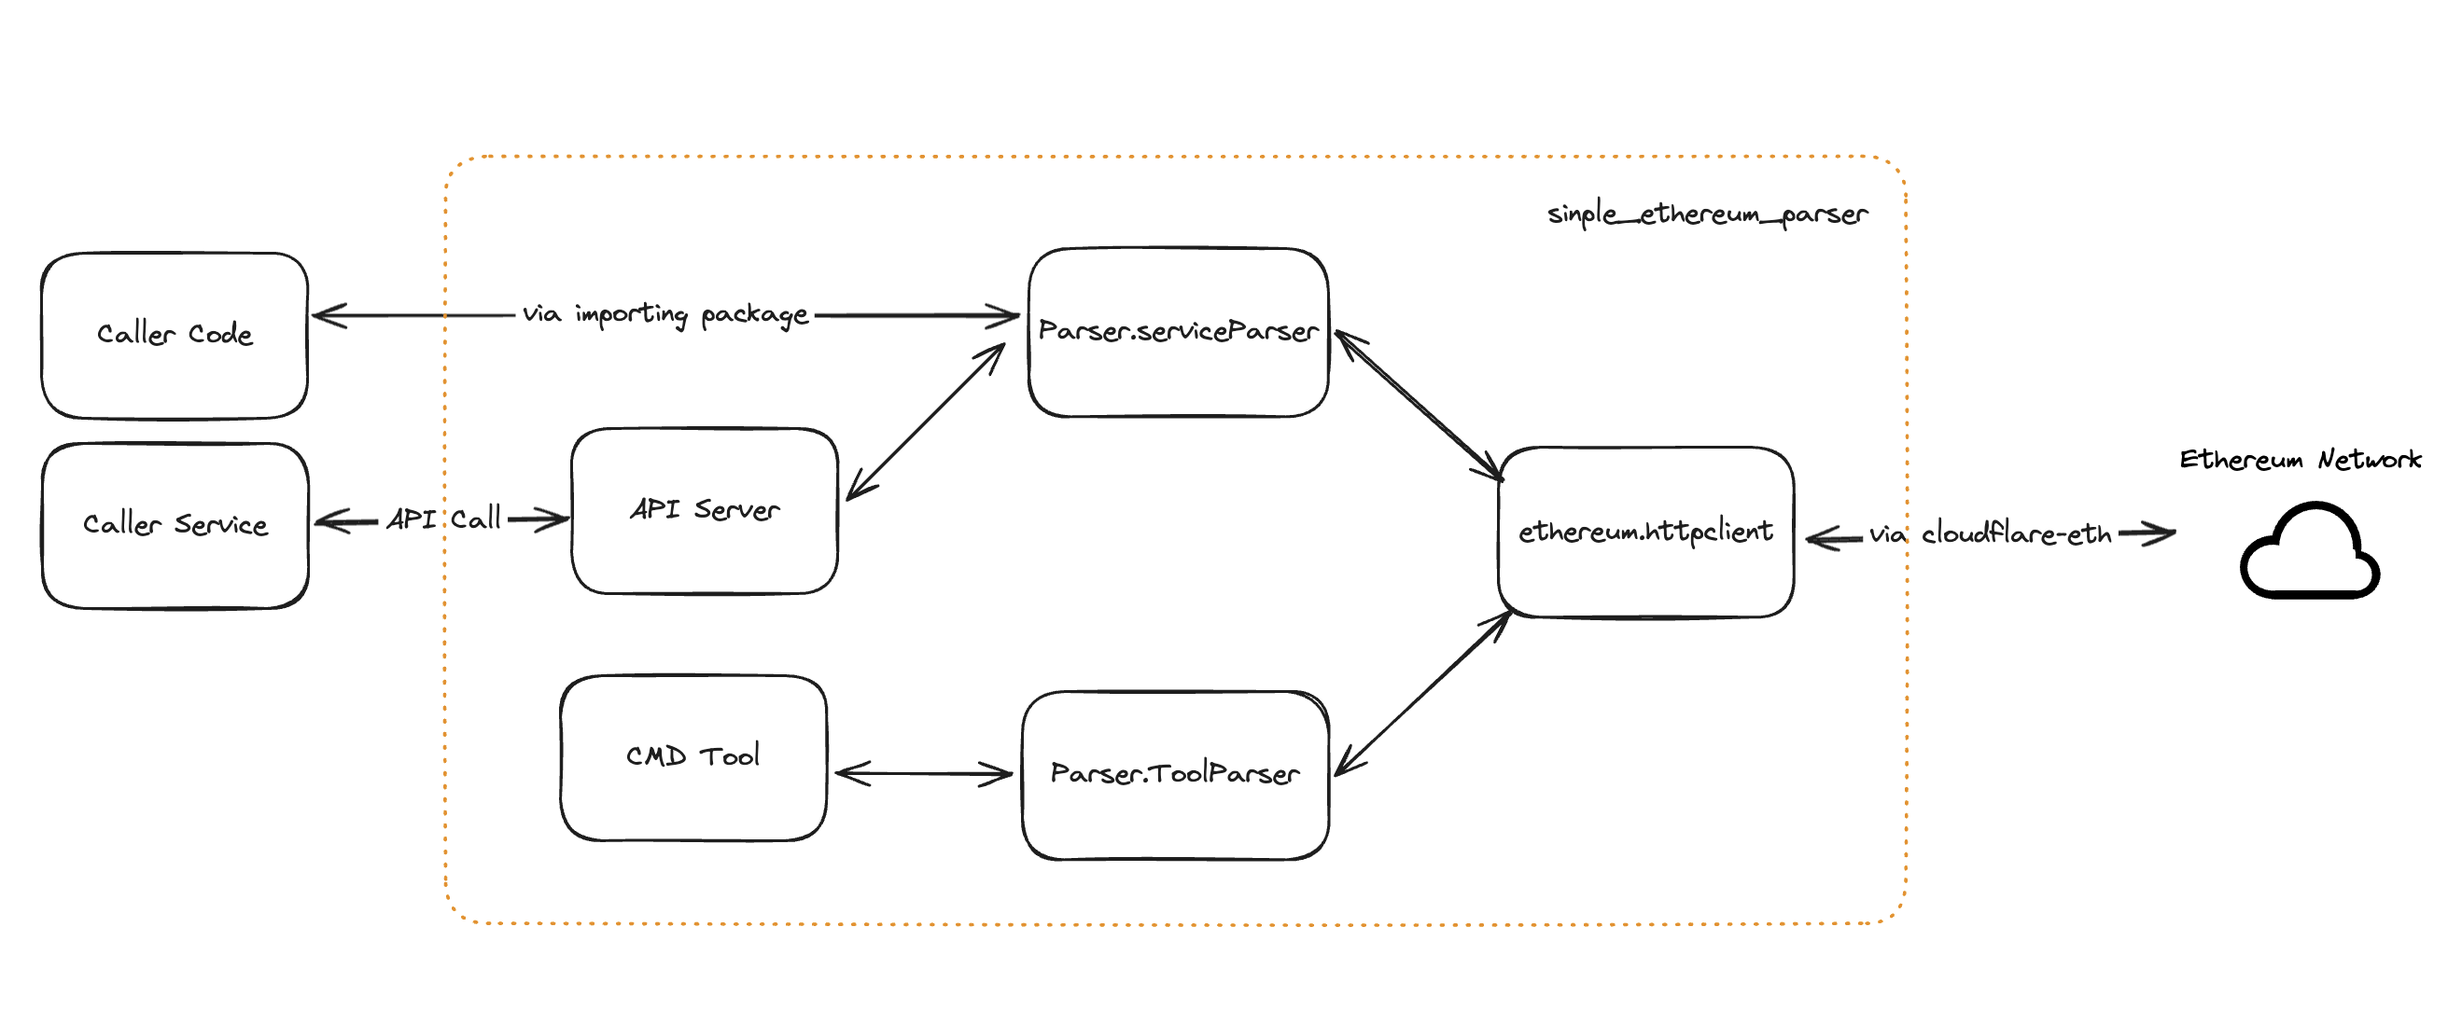
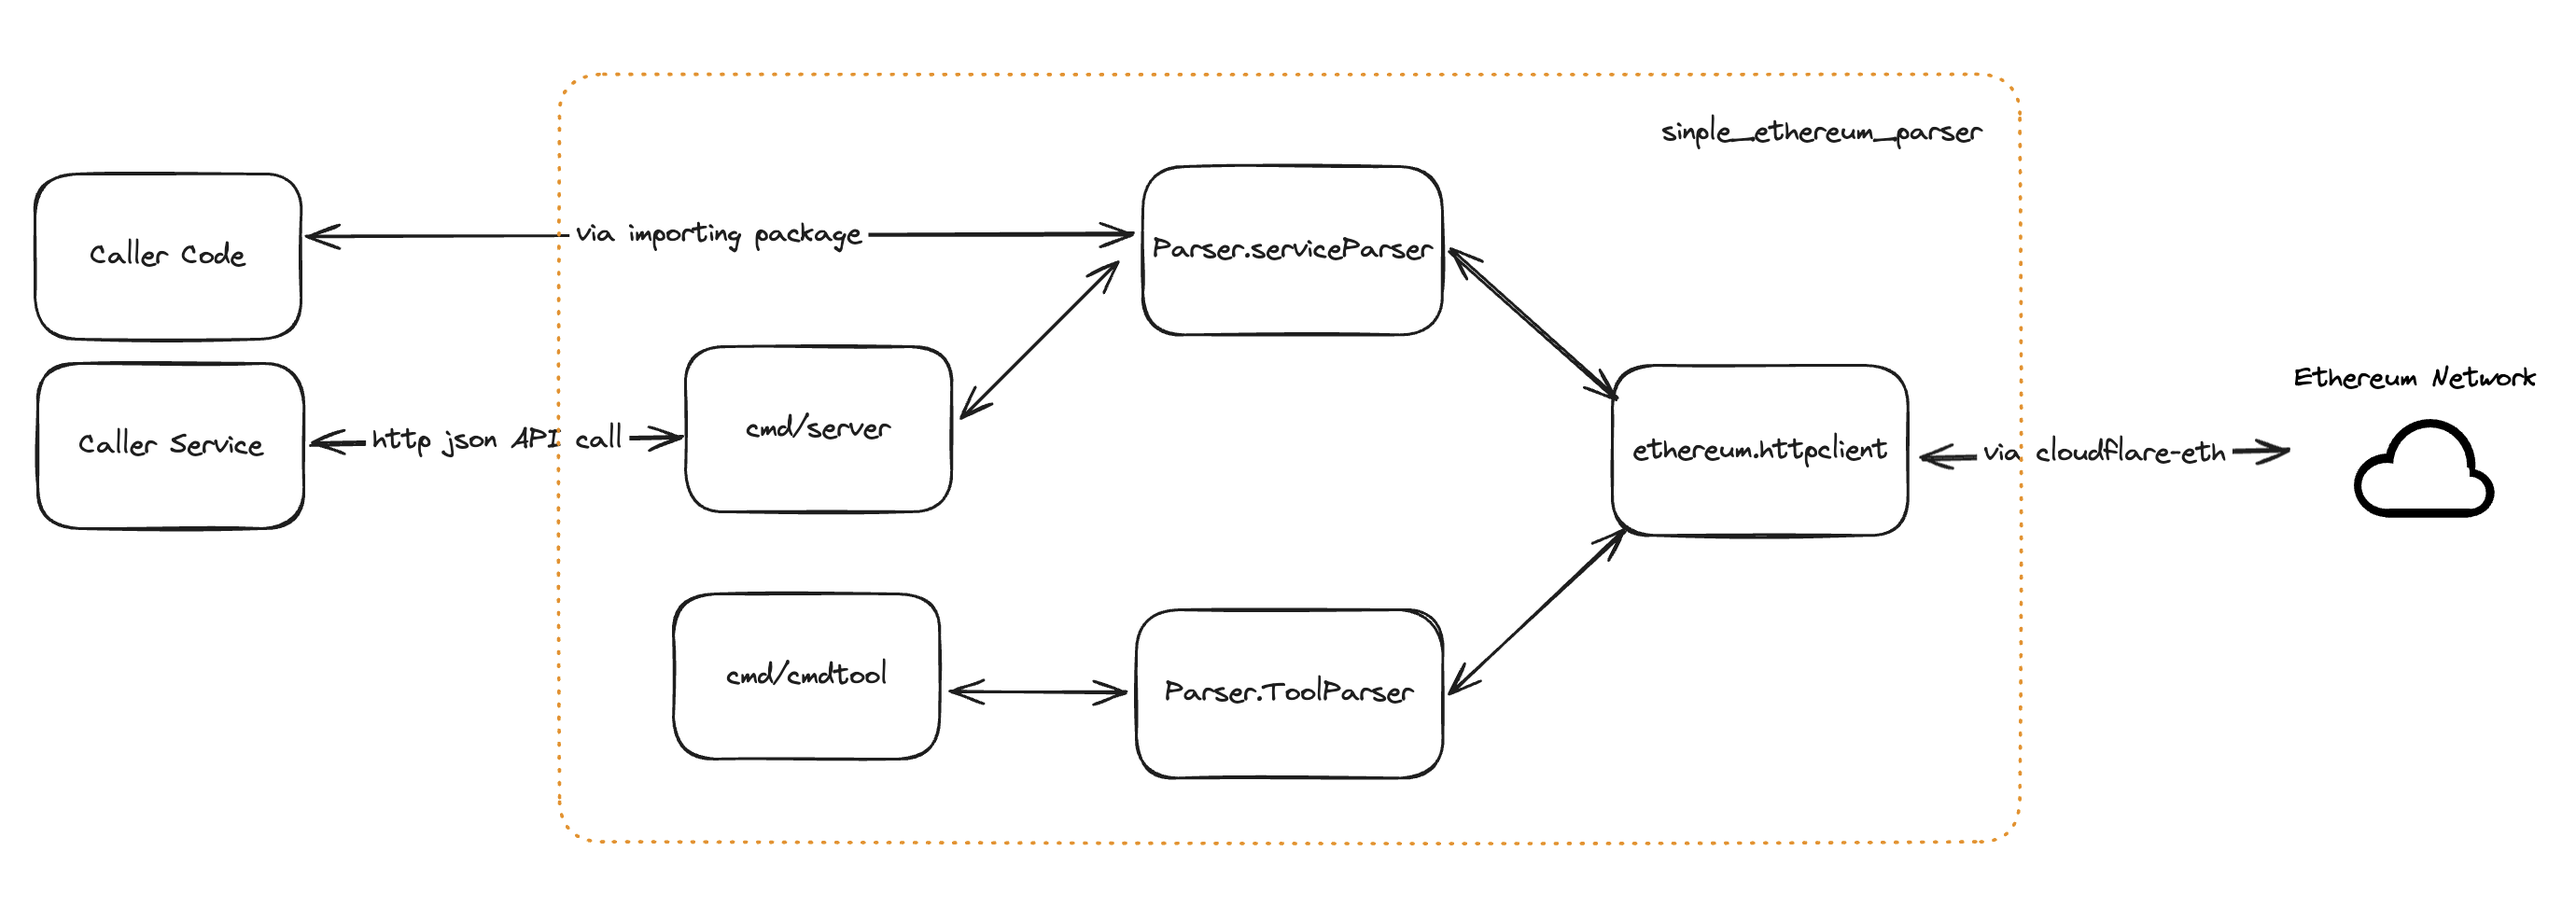
add more docs. parser.toolParser, cmd/server, cmd/cmdtool, cmd/testserver

diff --git a/docs/docs.md b/docs/docs.md
@@ -108,6 +108,8 @@ The `ServiceParser` would serve the `API Server` and scenarios of accessing via 
 
 #### parser.ServiceParser
 
+`serviceParser` is implemented to serve the scenarios of access via code or API call. That's means, it can run as a component of a API server or be imported by caller.
+
 ##### Function
 
 * An `Parser` interface is exposed
@@ -132,6 +134,36 @@ Since the data is stored into memory for now, we need pay attention to the memor
 * Limitation about the `max number of subcribed addresses` and `max number of transaction of one address` is involved. And such limitation is configured.
     * If the subscribed address number exceeds the limitation, FRU policy would be used to retired some addresses.
     * If the number of stored transactions of an address exceeds the limitation, the old ones would be retired (this actually depends on the order of the data return from chain entry point).
+
+#### parser.toolParser
+
+`toolParser` is used to server the command-line tool scenario. For this scenario, performance is required so much. So, it just calls the `ethereum.httpclient` to get the block number and transactions of an address
+
+#### cmd/server
+
+`cmd/server` works as an `API Server`. 
+
+##### Function
+
+* It implements the 3 required APIs, based on `json` format and HTTP protocol. 
+* It depends on the `parser.serviceParser` to do the work
+
+##### cmd/cmdtool
+
+`cmd/cmdtool` is an simple command line tool, which support ad-hoc, manually scenarios to get block number and transactions. For this scenario, performance is not so sensitive.
+
+##### Function
+
+* It depends on the `parser.toolParser` to do the work
+
+#### cmd/testserver
+
+`cmd/testserver` works as an `API Server` for testing purpose.
+
+* `Rate Limiting` is triggered when access the required entry point. So, a test service is necessary for unit tests and some of integration tests. 
+* It serves API call via `Ethereum JSON RPC` format and HTTP protocol.
+* It constructs some mock on chain data, the block number and transactions
+
 
 #### logging.Logger
 
